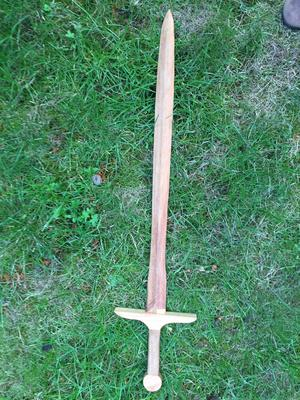
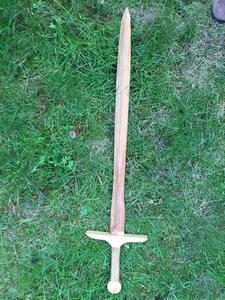
automatic decreased thumbnail size

diff --git a/public/js/openPopup.js b/public/js/openPopup.js
@@ -14,7 +14,7 @@ function openPopup(id) {
 	gallery.init()
 }
 
-const projects = {"bigHammer":{imgs:[{src:"00.jpg",w:3024,h:4032},{src:"02.jpg",w:3024,h:4032},{src:"03.jpg",w:3024,h:4032},{src:"04.jpg",w:3024,h:4032}],root:"/img/projectImg/bigHammer/"},"boomicStand":{imgs:[{src:"02.jpg",w:3024,h:4032},{src:"03.jpg",w:3024,h:4032},{src:"05.jpg",w:3024,h:4032}],root:"/img/projectImg/boomicStand/"},"hammer":{imgs:[{src:"01.jpg",w:1200,h:1600},{src:"02.jpg",w:1200,h:1600},{src:"03.jpg",w:1200,h:1600}],root:"/img/projectImg/hammer/"},"jacobsLadder":{imgs:[{src:"01.jpg",w:1200,h:1600},{src:"02.jpg",w:1200,h:1600},{src:"03.jpg",w:1200,h:1600}],root:"/img/projectImg/jacobsLadder/"},"knife":{imgs:[{src:"01.jpg",w:3264,h:2448},{src:"02.jpg",w:3264,h:2448}],root:"/img/projectImg/knife/"},"opslag":{imgs:[{src:"01.jpg",w:2824,h:1871},{src:"02.jpg",w:2268,h:4032},{src:"03.jpg",w:2268,h:4032},{src:"04.jpg",w:2268,h:4032},{src:"05.jpg",w:2268,h:4032},{src:"07.jpg",w:2268,h:4032},{src:"08.jpg",w:2268,h:4032},{src:"09.jpg",w:2268,h:4032}],root:"/img/projectImg/opslag/"},"rainbarrelStand":{imgs:[{src:"00.jpg",w:3024,h:4032},{src:"02.jpg",w:3024,h:4032},{src:"03.jpg",w:3024,h:4032},{src:"04.jpg",w:3024,h:4032},{src:"05.jpg",w:3024,h:4032},{src:"06.jpg",w:3024,h:4032}],root:"/img/projectImg/rainbarrelStand/"},"smallBox":{imgs:[{src:"02.jpg",w:3264,h:2448}],root:"/img/projectImg/smallBox/"},"speakers":{imgs:[{src:"01.jpg",w:3264,h:2448},{src:"02.jpg",w:1920,h:1080},{src:"03.jpg",w:2268,h:4032},{src:"04.jpg",w:4032,h:2268}],root:"/img/projectImg/speakers/"},"sword":{imgs:[{src:"01.jpg",w:1200,h:1600},{src:"02.jpg",w:1200,h:1600},{src:"03.jpg",w:1200,h:1600}],root:"/img/projectImg/sword/"},"sword2":{imgs:[{src:"01.jpg",w:1200,h:1600},{src:"02.jpg",w:1200,h:1600},{src:"03.jpg",w:1200,h:1600}],root:"/img/projectImg/sword2/"},"table":{imgs:[{src:"01.jpg",w:3264,h:2448},{src:"02.jpg",w:3264,h:2448},{src:"03.jpg",w:2448,h:3246}],root:"/img/projectImg/table/"},"tableLeg":{imgs:[{src:"00.jpg",w:2941,h:2893},{src:"01.jpg",w:3024,h:4032},{src:"02.jpg",w:3024,h:4032},{src:"04.jpg",w:4032,h:3024},{src:"05.jpg",w:4032,h:3024},{src:"06.jpg",w:3024,h:4032},{src:"07.jpg",w:3024,h:4032},{src:"08.jpg",w:3024,h:4032},{src:"09.jpg",w:4032,h:3024},{src:"10.jpg",w:2941,h:2893},{src:"14.jpg",w:4032,h:3024}],root:"/img/projectImg/tableLeg/"},"wolmolen":{imgs:[{src:"01.jpg",w:2756,h:1550},{src:"02.jpg",w:2756,h:1550},{src:"03.jpg",w:2756,h:1550},{src:"04.jpg",w:2756,h:1550},{src:"05.jpg",w:2756,h:1550},{src:"06.jpg",w:2756,h:1550},{src:"07.jpg",w:2756,h:1550},{src:"08.jpg",w:2756,h:1550},{src:"09.jpg",w:2756,h:1550},{src:"10.jpg",w:2756,h:1550},{src:"11.jpg",w:2756,h:1550},{src:"12.jpg",w:2756,h:1550},{src:"13.jpg",w:2756,h:1550}],root:"/img/projectImg/wolmolen/"}}
+const projects = ["bigHammer","boomicStand","hammer","jacobsLadder","knife","opslag","rainbarrelStand","smallBox","speakers","sword","sword2","table","tableLeg","wolmolen"]
 
 for (const project of Object.keys(projects)) {
 	for (const img of projects[project].imgs) {

diff --git a/other/templatesAndModules/projectsGenerator.js b/other/templatesAndModules/projectsGenerator.js
@@ -1,14 +1,30 @@
 const path = require('path')
 const fs = require('fs')
+const exec = require('util').promisify(require('child_process').exec)
 
 const projectsPath = path.join(__dirname, '../../public/img/projectImg/')
 
 async function createThumbnail(imagePath, thumbnailPath) {
-	const { stderr } = await exec(`convert -resize 'X400' '${imagePath}' '${thumbnailPath}'`)
+	const extention = imagePath.match(/\.[0-9a-z]+$/)[0] || '.jpg'
+	const uncompressed = `/tmp/${Date.now()}${extention}`
+	let { stderr } = await exec(`convert -resize 'X300' '${imagePath}' '${uncompressed}'`)
 	if (stderr) console.error(stderr)
+
+	const compressed = `/tmp/${Date.now()}${extention}`
+	// from: https://web.dev/uses-optimized-images/?utm_source=lighthouse&utm_medium=unknown
+	let { stderr2 } = await exec(`convert -quality 85 '${uncompressed}' ${compressed}`)
+	if (stderr2) console.error(stderr2)
+	const sizeDelta = (await fs.promises.stat(compressed)).size - (await fs.promises.stat(uncompressed)).size
+	if (sizeDelta > 4 * 1024) {
+		await fs.promises.rename(compressed, thumbnailPath)
+		await fs.promises.unlink(uncompressed)
+		console.log(`Saved ${sizeDelta / 1024} KiB on ${thumbnailPath}`)
+	} else {
+		await fs.promises.rename(uncompressed, thumbnailPath)
+		await fs.promises.unlink(compressed)
+	}
 }
 
-const exec = require('util').promisify(require('child_process').exec)
 async function imageSize(path) {
 	const identity = await exec(`identify -format "%wx%h" '${path}'`)
 	if (identity.stderr) console.error(stderr)
@@ -55,15 +71,17 @@ async function parseImages(projectPath) {
 	return imageDb
 }
 
+async function getProject(projectID) {
+	let res = {}
+	res.imgs = await parseImages(path.join(projectsPath, projectID))
+	res.root = path.join('/img/projectImg/', projectID) + '/'
+	console.log(`Done: ${projectID}\n`)
+	return res
+}
+
 (async () => {
-	const projectIDs = await fs.promises.readdir(projectsPath)
-	let projectsDb = {}
-	for (const projectID of projectIDs) {
-		projectsDb[projectID] = {}
-		projectsDb[projectID].imgs = await parseImages(path.join(projectsPath, projectID))
-		projectsDb[projectID].root = path.join('/img/projectImg/', projectID) + '/'
-		console.log(`Done: ${projectID}\n`)
-	}
+	let projectsDb = await fs.promises.readdir(projectsPath)
+	Promise.all(projectsDb.map(getProject))
 	projectsDb = JSON.stringify(projectsDb)
 	projectsDb = projectsDb.replace(/\"src\"\:/g, 'src:')
 	projectsDb = projectsDb.replace(/\"imgs\"\:/g, 'imgs:')

diff --git a/public/css/style.css b/public/css/style.css
@@ -104,15 +104,15 @@ body {
 
 .scale-up {
 	cursor: pointer;
-	transition: transform .08s;
+	transition: transform .015s;
 }
 
 .scale-up:hover {
 	/* outline: 3px solid rgba(244, 241, 187, 1); */
-	box-shadow: 5px 5px 7px rgba(0, 0, 0, 0.7);
+	box-shadow: 15px 15px 22px rgba(0, 0, 0, 0.25);
 	transform: scale(1.015);
 }
 
 .shadow:hover {
-	box-shadow: 5px 5px 7px rgba(0, 0, 0, 0.7);
+	box-shadow: 15px 15px 22px rgba(0, 0, 0, 0.25);
 }
